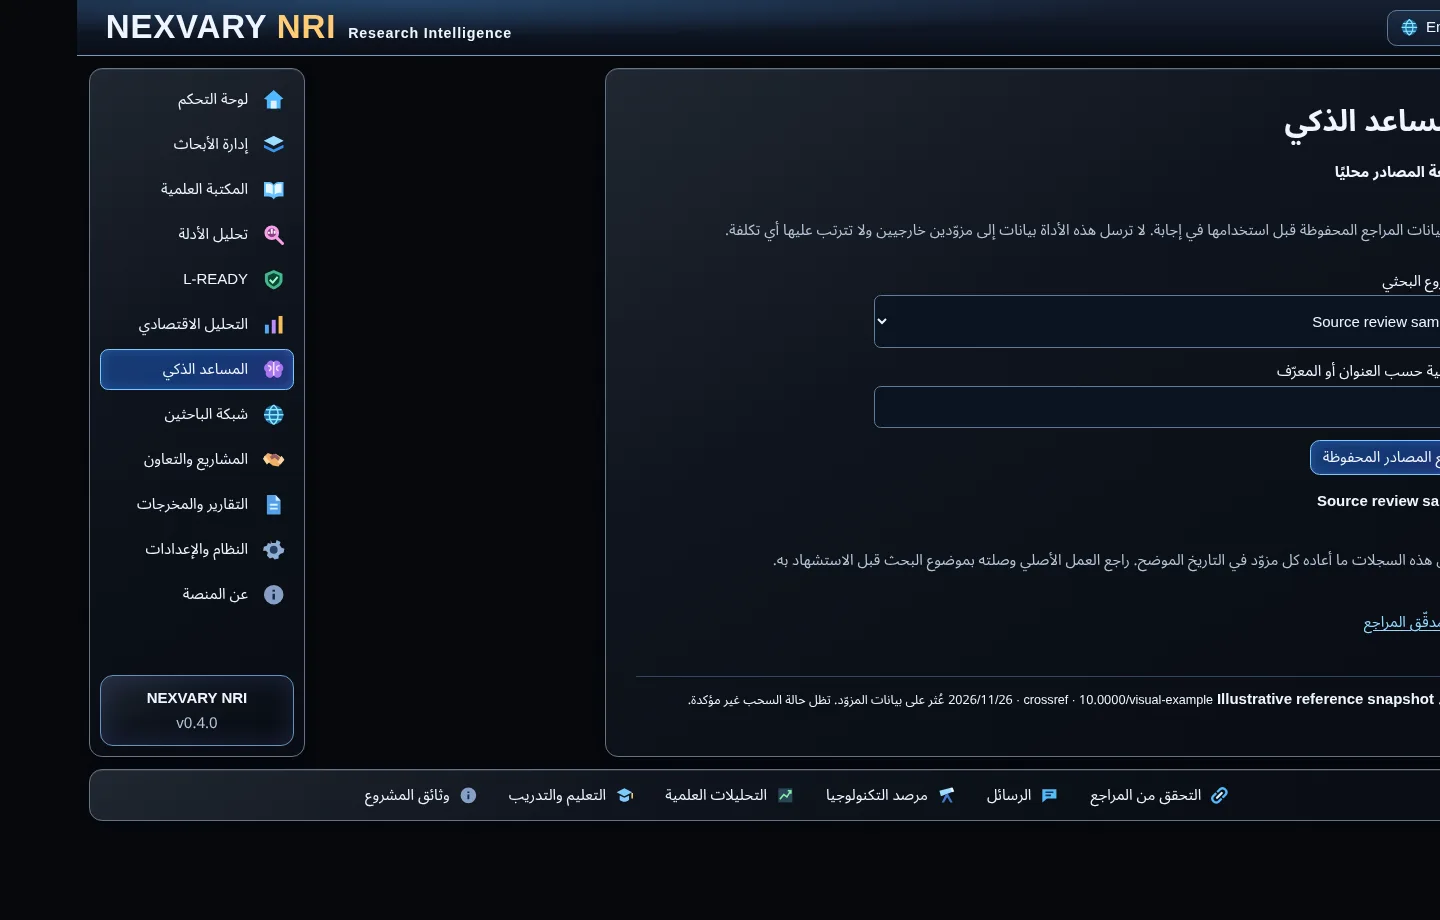
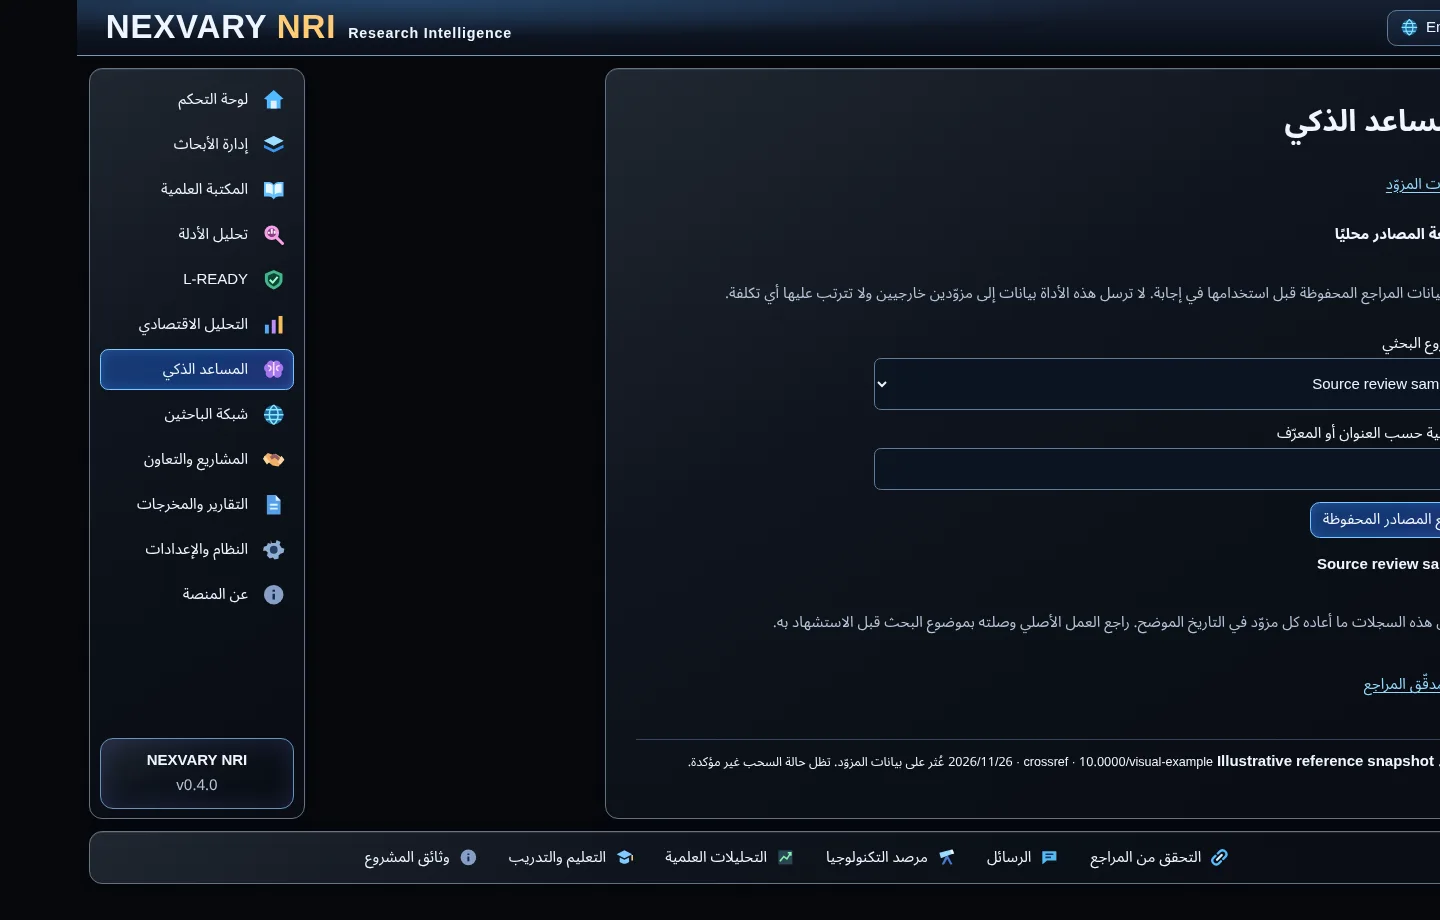
Add private Assistant provider preferences and encrypted BYOK

diff --git a/src/assistant-settings.js b/src/assistant-settings.js
@@ -1,0 +1,103 @@
+import { createCipheriv, createDecipheriv, createHmac, randomBytes } from 'node:crypto';
+import { escapeHtml } from './workspace-view.js';
+
+export const assistantSettingsSchema = `
+  CREATE TABLE IF NOT EXISTS assistant_settings (
+    account_id TEXT PRIMARY KEY REFERENCES accounts(id) ON DELETE CASCADE,
+    provider TEXT NOT NULL CHECK(provider IN ('openai', 'local')),
+    model TEXT NOT NULL,
+    api_key BLOB,
+    CHECK((provider = 'openai' AND api_key IS NOT NULL) OR (provider = 'local' AND api_key IS NULL))
+  ) STRICT;
+  PRAGMA user_version = 13;
+`;
+
+export function assistantSettingsStore(db, workspaceKey) {
+  const key = createHmac('sha256', workspaceKey).update('nri-assistant-settings-v1').digest();
+  const get = db.prepare('SELECT provider, model, api_key FROM assistant_settings WHERE account_id = ?');
+  const set = db.prepare(`
+    INSERT INTO assistant_settings VALUES (?, ?, ?, ?)
+    ON CONFLICT(account_id) DO UPDATE SET provider=excluded.provider, model=excluded.model,
+      api_key=excluded.api_key
+  `);
+  const updateModel = db.prepare("UPDATE assistant_settings SET model = ? WHERE account_id = ? AND provider = 'openai'");
+  const clear = db.prepare('DELETE FROM assistant_settings WHERE account_id = ?');
+  return {
+    summary(accountId) {
+      const row = get.get(accountId);
+      return row ? { provider: row.provider, model: row.model, hasKey: row.api_key !== null } : { provider: 'offline', model: '', hasKey: false };
+    },
+    save(accountId, provider, model, apiKey) {
+      if (provider === 'offline') {
+        clear.run(accountId);
+        return true;
+      }
+      if (!['openai', 'local'].includes(provider) || !/^[A-Za-z0-9][A-Za-z0-9./:_-]{0,119}$/.test(model)) return false;
+      if (provider === 'local' && apiKey) return false;
+      if (apiKey && !/^[!-~]{1,512}$/.test(apiKey)) return false;
+      // Bind ciphertext to the account and keep key retention inside the atomic update.
+      if (provider === 'openai' && !apiKey) {
+        return Boolean(updateModel.run(model, accountId).changes);
+      }
+      let encrypted = null;
+      if (apiKey) {
+        const nonce = randomBytes(12);
+        const cipher = createCipheriv('aes-256-gcm', key, nonce);
+        cipher.setAAD(Buffer.from(accountId));
+        const ciphertext = Buffer.concat([cipher.update(apiKey, 'utf8'), cipher.final()]);
+        encrypted = Buffer.concat([nonce, cipher.getAuthTag(), ciphertext]);
+      }
+      set.run(accountId, provider, model, encrypted);
+      return true;
+    },
+    configuration(accountId) {
+      const row = get.get(accountId);
+      if (!row) return undefined;
+      if (!row.api_key) return { provider: row.provider, model: row.model };
+      const encrypted = Buffer.from(row.api_key);
+      const decipher = createDecipheriv('aes-256-gcm', key, encrypted.subarray(0, 12));
+      decipher.setAAD(Buffer.from(accountId));
+      decipher.setAuthTag(encrypted.subarray(12, 28));
+      const apiKey = Buffer.concat([decipher.update(encrypted.subarray(28)), decipher.final()]).toString('utf8');
+      return { provider: row.provider, model: row.model, apiKey };
+    },
+  };
+}
+
+export function handleAssistantSettings({ reply, redirect, lang, form, store, account }) {
+  const ar = lang === 'ar';
+  const t = (en, arabic) => ar ? arabic : en;
+  const path = '/workspace/assistant/settings';
+  let status = 200;
+  if (form) {
+    if (store.assistantSettings.save(account.id, form.get('provider'), (form.get('model') ?? '').trim(), form.get('api-key') ?? '')) {
+      redirect(path + '?lang=' + lang);
+      return;
+    }
+    status = 422;
+  }
+  const { provider, model, hasKey } = store.assistantSettings.summary(account.id);
+  const option = (value, label) => `<option value="${value}"${provider === value ? ' selected' : ''}>${label}</option>`;
+  const title = t('Assistant provider settings', 'إعدادات مزوّد المساعد');
+  reply(status, {
+    title, path,
+    html: `<section class="surface panel detail workspace-page">
+      <h1>${title}</h1>
+      <p><a href="/workspace/assistant?lang=${lang}">${t('Back to source review', 'العودة إلى مراجعة المصادر')}</a></p>
+      <p>${t('These settings are saved locally. Answer generation is pending.', 'تُحفظ هذه الإعدادات محليًا. توليد الإجابات قيد التطوير.')}</p>
+      ${status === 422 ? `<p role="alert">${t('Check the provider, model and key. OpenAI requires a key.', 'تحقق من المزوّد والنموذج والمفتاح. يتطلب OpenAI مفتاحًا.')}</p>` : ''}
+      <form class="workspace-form" method="post" action="${path}?lang=${lang}">
+        <label>${t('Provider', 'المزوّد')}<select name="provider">
+          ${option('offline', t('Offline source review', 'مراجعة المصادر محليًا'))}
+          ${option('openai', 'OpenAI')}
+          ${option('local', t('Local OpenAI-compatible server', 'خادم محلي متوافق مع OpenAI'))}
+        </select></label>
+        <label>${t('Model ID', 'معرّف النموذج')}<input name="model" dir="ltr" maxlength="120" value="${escapeHtml(model)}"></label>
+        <label>${t('OpenAI API key', 'مفتاح OpenAI API')}<input name="api-key" type="password" autocomplete="new-password" maxlength="512"></label>
+        <small>${hasKey ? t('Key stored. Leave blank to keep it with OpenAI.', 'المفتاح محفوظ. اترك الحقل فارغًا للاحتفاظ به مع OpenAI.') : t('No API key stored.', 'لا يوجد مفتاح API محفوظ.')}</small>
+        <small>${t('Saving Offline or Local removes the stored OpenAI key.', 'يؤدي حفظ وضع المراجعة أو الخادم المحلي إلى حذف مفتاح OpenAI المحفوظ.')}</small>
+        <button class="action">${t('Save settings', 'حفظ الإعدادات')}</button>
+      </form>
+    </section>`,
+  });
+}

diff --git a/test/assistant-settings.test.js b/test/assistant-settings.test.js
@@ -1,0 +1,60 @@
+import assert from 'node:assert/strict';
+import { mkdtemp, readFile, rm } from 'node:fs/promises';
+import { tmpdir } from 'node:os';
+import { join } from 'node:path';
+import { test } from 'node:test';
+import { createApp } from '../src/server.js';
+import { openWorkspaceStore } from '../src/store.js';
+
+test('persists private Assistant settings, encrypts BYOK, and supports offline reset without calling providers', async (t) => {
+  const directory = await mkdtemp(join(tmpdir(), 'nri-byok-'));
+  t.after(() => rm(directory, { recursive: true, force: true }));
+  const path = join(directory, 'workspace.sqlite');
+  const store = openWorkspaceStore(path);
+  const [owner, other] = ['owner@example.test', 'other@example.test'].map((email) => {
+    store.addAccount(email, { salt: Buffer.alloc(16), hash: Buffer.alloc(32) });
+    const { id } = store.credentials(email);
+    return { id, cookie: 'nri_session=' + store.newSession(id) };
+  });
+  const app = createApp(store);
+  await new Promise((resolve) => app.listen(0, '127.0.0.1', resolve));
+  try {
+    const origin = 'http://127.0.0.1:' + app.address().port;
+    const url = origin + '/workspace/assistant/settings?lang=en';
+    const key = 'mock-provider-key-never-sent';
+    const post = (user, settings, source = origin) => fetch(url, {
+      method: 'POST', headers: { cookie: user.cookie, origin: source },
+      body: new URLSearchParams(settings), redirect: 'manual',
+    });
+    const get = (user, lang = 'en') => fetch(url.replace('lang=en', 'lang=' + lang), {
+      headers: { cookie: user?.cookie ?? '' }, redirect: 'manual',
+    });
+    assert.equal((await get()).status, 303);
+    assert.equal((await post(owner, { provider: 'openai', model: 'model-a' })).status, 422);
+    assert.equal((await post(owner, { provider: 'openai', model: 'model-a', 'api-key': key }, 'https://foreign.example')).status, 403);
+    assert.equal((await post(owner, { provider: 'openai', model: 'model-a', 'api-key': key })).status, 303);
+    const settings = await get(owner);
+    assert.equal(settings.headers.get('cache-control'), 'no-store');
+    const html = await settings.text();
+    assert.match(html, /Key stored/);
+    assert.doesNotMatch(html, new RegExp(key));
+    assert.match(await (await get(owner, 'ar')).text(), /المفتاح محفوظ/);
+    assert.match(await (await get(other)).text(), /No API key stored/);
+    assert.equal((await post(owner, { provider: 'openai', model: 'model-b' })).status, 303);
+    assert.deepEqual(store.assistantSettings.configuration(owner.id), { provider: 'openai', model: 'model-b', apiKey: key });
+    assert.equal((await post(other, { provider: 'local', model: 'local-model' })).status, 303);
+    assert.equal((await post(other, { provider: 'offline' })).status, 303);
+    assert.equal(store.assistantSettings.configuration(other.id), undefined);
+    assert.ok(!(await readFile(path)).includes(Buffer.from(key)));
+  } finally {
+    await new Promise((resolve) => app.close(resolve));
+  }
+  const reopened = openWorkspaceStore(path);
+  try {
+    assert.equal(reopened.assistantSettings.configuration(owner.id).apiKey, 'mock-provider-key-never-sent');
+    assert.equal(reopened.assistantSettings.save(owner.id, 'offline', '', ''), true);
+    assert.equal(reopened.assistantSettings.configuration(owner.id), undefined);
+  } finally {
+    reopened.close();
+  }
+});

diff --git a/src/store.js b/src/store.js
@@ -2,6 +2,7 @@ import { createHash, randomBytes, randomUUID } from 'node:crypto';
 import { closeSync, mkdirSync, openSync } from 'node:fs';
 import { dirname, resolve } from 'node:path';
 import { DatabaseSync } from 'node:sqlite';
+import { assistantSettingsSchema, assistantSettingsStore } from './assistant-settings.js';
 import { bindDocumentKey } from './document-crypto.js';
 import { documentSchema, documentStore } from './document-store.js';
 import { educationSchema, educationStore } from './education.js';
@@ -16,7 +17,7 @@ import { evidenceSchema, evidenceStore } from './evidence-store.js';
 import { referenceSchema, referenceMigrationV4, referenceStore } from './reference-store.js';
 
 export const sessionLifetime = 8 * 60 * 60;
-const schemaVersion = 12;
+const schemaVersion = 13;
 const schema = `
   CREATE TABLE accounts (
     id TEXT PRIMARY KEY,
@@ -71,6 +72,7 @@ function initialize(db, path) {
     if (version < 10) db.exec(settingsSchema);
     if (version < 11) db.exec(sharingSchema);
     if (version < 12) db.exec(educationSchema);
+    if (version < 13) db.exec(assistantSettingsSchema);
     return bindDocumentKey(db, path);
   });
 }
@@ -90,13 +92,16 @@ export function openWorkspaceStore(path = ':memory:', now = Date.now) {
   }
 
   const db = new DatabaseSync(path, { enableForeignKeyConstraints: true, timeout: 3000 });
+  let assistantSettings;
   let documents;
   let references;
   let evidence;
   let readiness;
   let economics;
   try {
-    documents = documentStore(db, initialize(db, path), now, transact);
+    const workspaceKey = initialize(db, path);
+    documents = documentStore(db, workspaceKey, now, transact);
+    assistantSettings = assistantSettingsStore(db, workspaceKey);
     references = referenceStore(db, now, transact);
     evidence = evidenceStore(db, now, transact);
     readiness = readinessStore(db, now);
@@ -134,6 +139,7 @@ export function openWorkspaceStore(path = ':memory:', now = Date.now) {
   }
 
   return {
+    assistantSettings,
     documents,
     references,
     evidence,

diff --git a/src/workspace.js b/src/workspace.js
@@ -1,3 +1,4 @@
+import { handleAssistantSettings } from './assistant-settings.js';
 import { showAssistant } from './assistant.js';
 import { createDocumentHandler, resolveDocumentRoute } from './documents.js';
 import { createEducationHandler } from './education.js';
@@ -26,6 +27,7 @@ const maxConcurrentLogins = 2;
 export function resolveWorkspaceRoute(pathname) {
   if (pathname === '/login') return { kind: 'login' };
   if (pathname === '/logout') return { kind: 'logout' };
+  if (pathname === '/workspace/assistant/settings') return { kind: 'assistant-settings' };
   if (pathname === '/workspace/assistant') return { kind: 'assistant' };
   if (pathname === '/workspace/education') return { kind: 'education' };
   if (pathname === '/workspace/settings') return { kind: 'settings' };
@@ -165,6 +167,10 @@ export function createWorkspaceHandler(store, providers, version, reportRenderer
       return;
     }
 
+    if (kind === 'assistant-settings') {
+      handleAssistantSettings({ reply, redirect, lang, form, store, account });
+      return;
+    }
     if (kind === 'assistant') {
       showAssistant({ reply, request, lang, store, account });
       return;

diff --git a/src/assistant.js b/src/assistant.js
@@ -4,6 +4,7 @@ const path = '/workspace/assistant';
 const limit = 12;
 const labels = {
   title: ['AI assistant', 'المساعد الذكي'],
+  settings: ['Provider settings', 'إعدادات المزوّد'],
   local: ['Local source review', 'مراجعة المصادر محليًا'],
   boundary: [
     'Review saved reference metadata before using it in an answer. This tool sends no data to external providers and costs nothing.',
@@ -56,7 +57,7 @@ export function showAssistant({ reply, request, lang, store, account }) {
   reply(projectId && !selected ? 404 : 200, {
     title: t('title'), path,
     html: `<section class="surface panel detail workspace-page">
-      <h1>${t('title')}</h1><h2>${t('local')}</h2><p>${t('boundary')}</p>
+      <h1>${t('title')}</h1><p><a href="${path}/settings?lang=${lang}">${t('settings')}</a></p><h2>${t('local')}</h2><p>${t('boundary')}</p>
       <form class="workspace-form" action="${path}" method="get">
         <input type="hidden" name="lang" value="${lang}">
         <label>${t('project')}<select name="project" required>

diff --git a/docs/STATUS.md b/docs/STATUS.md
@@ -1,5 +1,12 @@
 # Development status
 
+## NRI-08b · Private provider settings · 2026-11-27 (Cairo)
+
+The Assistant has a bilingual, account-scoped provider settings page with Offline, OpenAI, and local OpenAI-compatible model selections. The OpenAI key is encrypted in SQLite with an account-bound AES-256-GCM key derived from the existing workspace key. The form never echoes the key. Switching to Offline or Local removes the stored OpenAI credential.
+
+- 47/47 with the bilingual PDF/DOCX renderer enabled. The new HTTP regression covers origin enforcement, account isolation, model update, persistence, key removal, and plaintext absence in the database.
+- The configuration form performs zero provider calls. Provider connectivity and answer generation are pending.
+
 ## NRI-08a · Local source review · 2026-11-27 (Cairo)
 
 The signed-in Assistant reviews a project's saved provider snapshots and links back to the reference validator. It filters by title or identifier and shows the provider, retrieval date, and editorial or retraction notices. Missing provider results and unknown retraction status remain explicit. The page makes no external requests.
@@ -169,7 +176,7 @@ Compared all 19 requirements with the application routes, persistence, renderer 
 | NRI-05 | Partial | Claims, dated source snapshots, study type, limitations, conflicting evidence, owner review and JSON export are verified. Team reviewer roles and review revisions remain. |
 | NRI-06 | Partial | Six ordered dimensions, four qualitative categories, project evidence links, revision history, reviewer and safety/authorization blockers are verified. Independent team reviewer roles remain. |
 | NRI-07 | Verified | One-year operating model with explicit assumptions, currency, units, capacity, sensitivity, scenario comparison and reproducible JSON export. |
-| NRI-08 | Partial | NRI-08a exercises private saved-source review, provenance and retraction/editorial warnings in `test/assistant.test.js`. BYOK, provider and model options, consent, generated cited answers, cancellation, caching, and usage/cost accounting remain. |
+| NRI-08 | Partial | NRI-08a exercises private saved-source review, provenance and retraction/editorial warnings in `test/assistant.test.js`. NRI-08b adds private encrypted BYOK storage, offline/provider selection and model settings in `test/assistant-settings.test.js`. Provider requests, consent, cited generation, cancellation, caching, and usage/cost accounting remain. |
 | NRI-09 | Partial | Opt-in profiles, search, follow and block, bounded requests and private profile isolation verified. Verified ORCID ownership, posts, groups, publication sharing and moderation remain. |
 | NRI-10 | Partial | Collaboration requests and scoped project-summary invitations, acceptance/decline, revoke and access history are verified. Broader roles, notifications, shared notes and tasks remain. |
 | NRI-11 | Not started | Conversations, notification preferences and authorization remain. |

diff --git a/docs/NRI-08-RESUME.md b/docs/NRI-08-RESUME.md
@@ -6,4 +6,6 @@ Owner authorization to resume arrived on 2026-11-27 (Cairo). Keep [draft PR #19]
 - Real Chromium QA exercised project selection and saved-source results in Arabic and English at desktop (1440×920) and mobile (390×844) viewport sizes. Captures are linked from [STATUS.md](STATUS.md).
 - Historical [CI run 45905875325](https://github.com/nexvary/Nexvary-NRI/actions/runs/45905875325) passed the tests and timed out before Chrome exposed DevTools. The harness now reports failed launch details and uses the hosted CI runner isolation for its synthetic loopback fixture.
 
-Next: preserve offline mode and add encrypted BYOK provider/model settings, then explicit external sharing consent, cited replies with verification and unsupported-claim warnings, usage and budget enforcement, cancellation, timeouts and caching. Resume NRI-11 after NRI-08 acceptance.
+NRI-08b adds encrypted per-account OpenAI credentials and offline, OpenAI, or local model settings. `NRI_REPORT_PYTHON=<renderer-python> npm test` passes all 47 tests. Start with `src/assistant-settings.js` and `test/assistant-settings.test.js`.
+
+Next: wire the OpenAI and loopback-compatible providers with mocked requests. Require specific consent for external payloads and enforce configured budgets before enabling generation. Add cited replies with verification and unsupported-claim warnings, usage accounting, cancellation, timeouts and caching. Resume NRI-11 after NRI-08 acceptance.

diff --git a/docs/DEVELOPMENT-LOG.md b/docs/DEVELOPMENT-LOG.md
@@ -91,3 +91,9 @@
 - Resumed draft PR #19 at `02e2cb4`. The baseline passes 46/46 with the bilingual renderer.
 - Exercised saved-source review in Chromium in both languages and at desktop and mobile sizes. The four captures are linked from [STATUS.md](STATUS.md).
 - The old CI run timed out during DevTools startup. Added launch diagnostics and a hosted-runner launch setting for the isolated fixture.
+
+## 2026-11-27 · NRI-08b provider preferences and encrypted BYOK
+
+- Added bilingual provider/model settings and account-bound encryption for OpenAI keys using the existing paired workspace key. Saving preferences makes no provider requests.
+- Full regression with real reports: 47/47. Recaptured the Assistant after adding the settings link.
+- Browser QA can discover Chrome through DevToolsActivePort and checks overflow independently of vertical scrollbar width.
